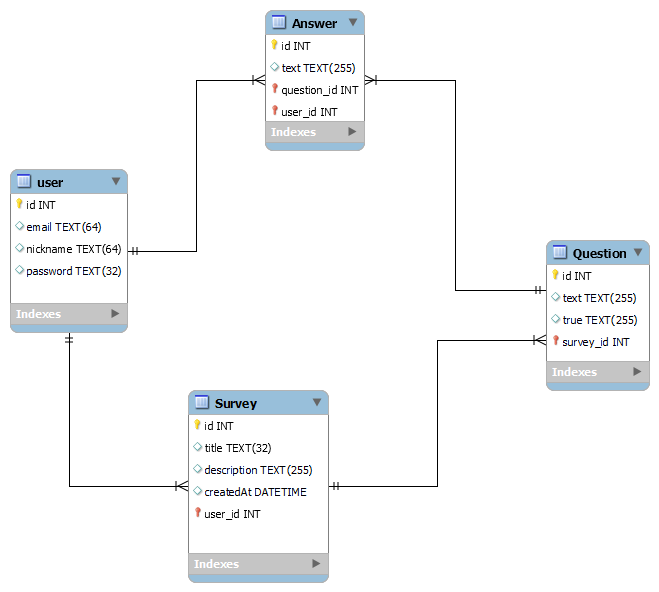
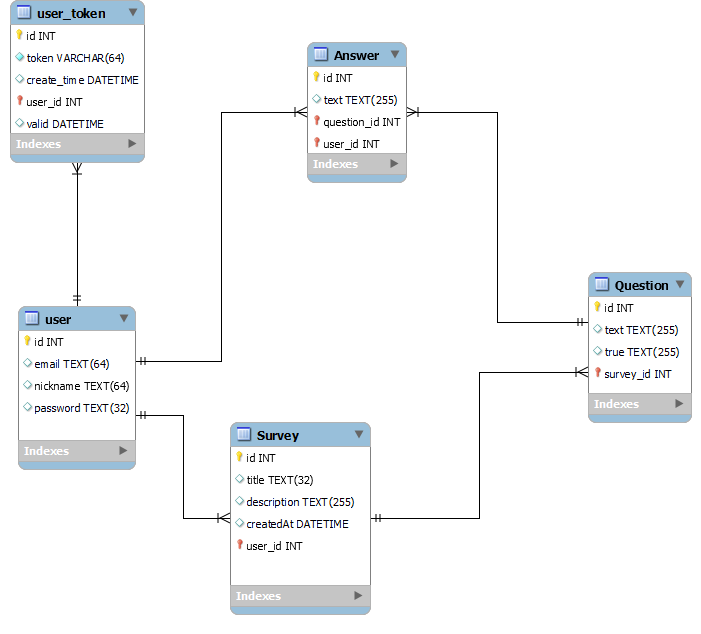
Lab_4_add_authorization

diff --git a/docs/software/README.md b/docs/software/README.md
@@ -1,6 +1,52 @@
 # Реалізація інформаційного та програмного забезпечення
 
-В рамках проекту розробляється: 
-- SQL-скрипт для створення на початкового наповнення бази даних
+## SQL-скрипт для створення на початкового наповнення бази даних
+
+``` sql
+-- Створення таблиці "User" (Пользователь)
+CREATE TABLE User (
+    id INT PRIMARY KEY,
+    email TEXT(64),
+    nickname TEXT(64),
+    password TEXT(32)
+);
+
+-- Створення таблиці "Answer" (Ответ)
+CREATE TABLE Answer (
+    id INT PRIMARY KEY,
+    text TEXT(255),
+    question_id INT,
+    user_id INT
+);
+
+-- Створення таблиці "Question" (Вопрос)
+CREATE TABLE Question (
+    id INT PRIMARY KEY,
+    text TEXT(255),
+    true TEXT(255),
+    survey_id INT
+);
+
+-- Створення таблиці "Survey" (Опрос)
+CREATE TABLE Survey (
+    id INT PRIMARY KEY,
+    title TEXT(32),
+    description TEXT(255),
+    createdAt DATETIME,
+    user_id INT
+);
+
+-- Додавання зовнішніх ключів
+ALTER TABLE Answer
+ADD FOREIGN KEY (question_id) REFERENCES Question(id),
+ADD FOREIGN KEY (user_id) REFERENCES User(id);
+
+ALTER TABLE Question
+ADD FOREIGN KEY (survey_id) REFERENCES Survey(id);
+
+ALTER TABLE Survey
+ADD FOREIGN KEY (user_id) REFERENCES User(id);
+
+```
 - RESTfull сервіс для управління даними
 

diff --git a/docs/design/README.md b/docs/design/README.md
@@ -11,13 +11,15 @@
 @startuml
 
     entity User
-    
     entity Survey
     entity Question
     entity Answer
+    entity User_Token
+    
 
     
     User "1,1"--"0,*" Answer
+    User "1,1"--"0,*" User_Token
     User "1,1"--"0,*" Survey
     Survey "1,1"*--"0,*" Question
     Answer "0,*"--*"1,1" Question
@@ -27,6 +29,12 @@
     entity User.nickname
     entity User.email
     entity User.password
+    
+   
+    entity user_token.id
+    entity user_token.token
+    entity user_token.create_time
+    entity user_token.valid
     
 
 
@@ -45,7 +53,11 @@
     entity Answer.text
 
     
-
+    
+    user_token.id --* User_Token
+    user_token.token --* User_Token
+    user_token.create_time --* User_Token
+    user_token.valid --* User_Token
 
     User.id --* User
     User.nickname --* User
@@ -90,6 +102,14 @@
             email: TEXT
             password: TEXT
         }
+        entity User_Token
+        {
+            id: INT
+            token: TEXT
+            create_time: DATETIME
+            valid: DATETIME
+        }
+        
     }
    
     
@@ -120,6 +140,8 @@
     
     User "1,1"--"0,*" Answer
     User "1,1"--"0,*" Survey
+    User "1,1"--"0,*" User_Token
+    
     Survey "1,1"*--"0,*" Question
     Answer "0,*"--*"1,1" Question
 
